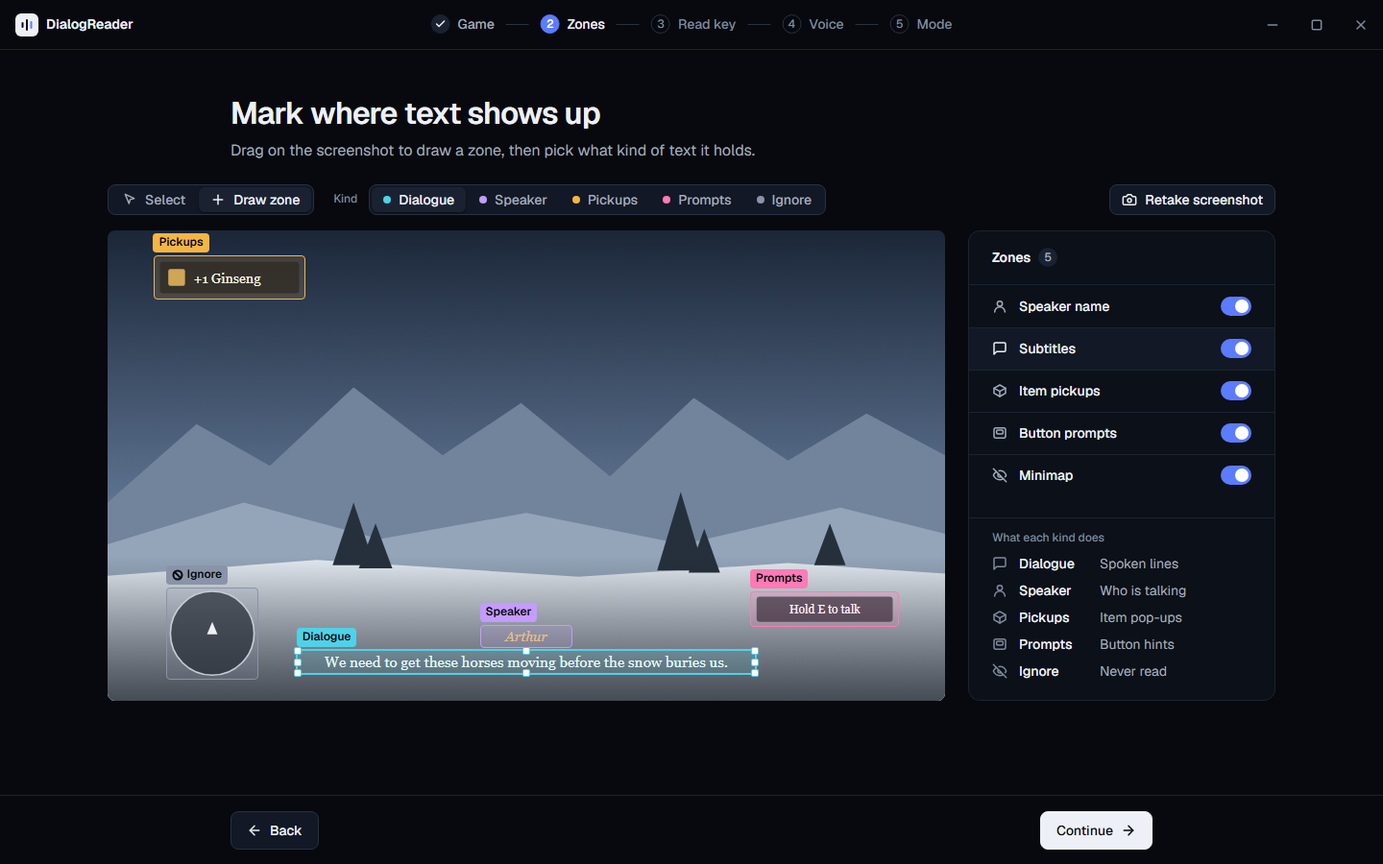
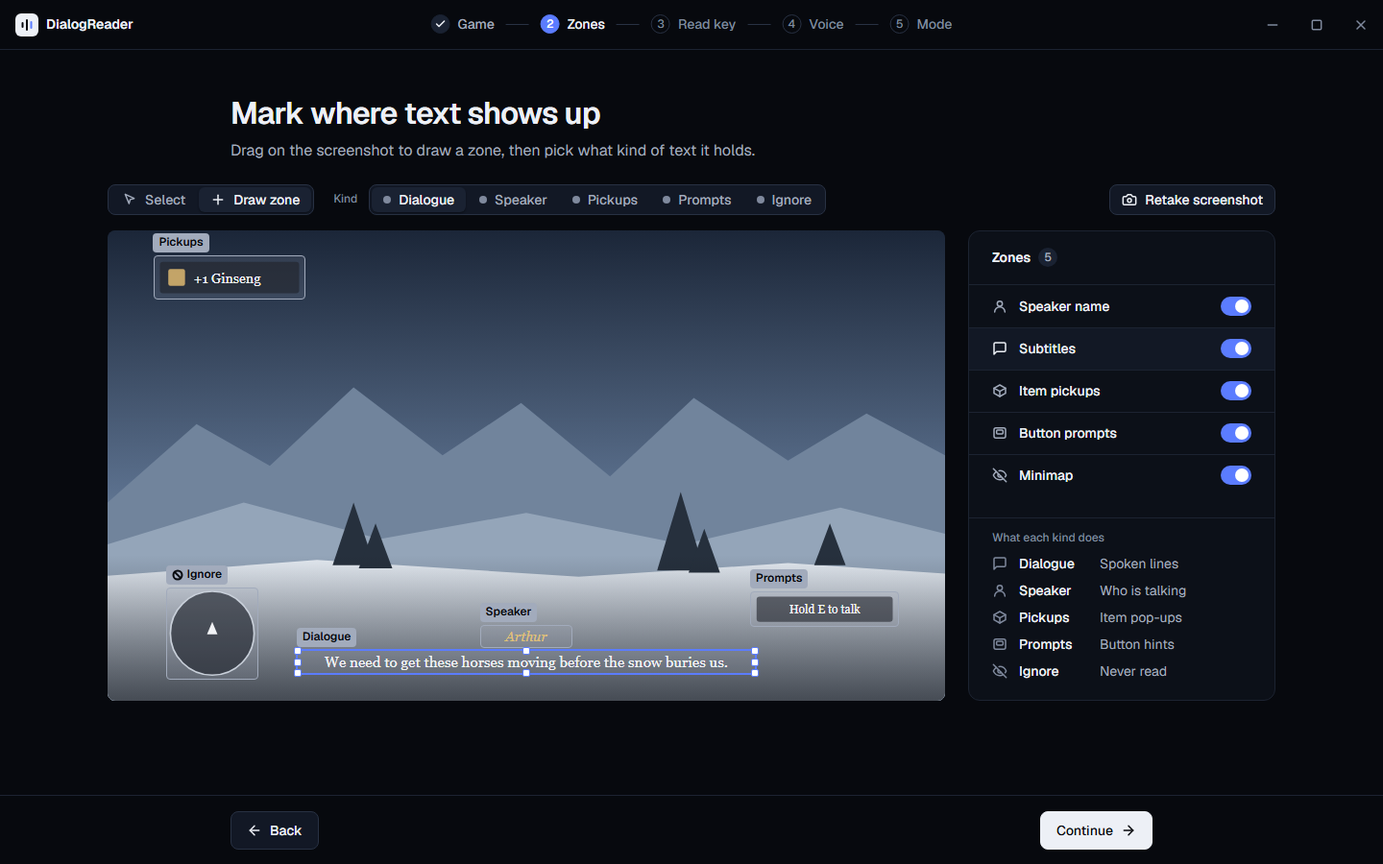
feat(app): grey zone kinds, opt-in Skia renderer, hidden-desktop snapshot tool
- Zone boxes, labels and kind dots are grey in the app and on mockups 03, 06, 11 only
  (other mockup pages byte-identical). Selected zone keeps the accent.
- renderer-skia cargo feature (opt-in). Default build stays femtovg, same exe size.
  Skia matches mockup text ink (100% at 1x and 2.25x vs femtovg 79% / 89%) but the exe
  is 29.2 MB, or 22.1 MB with panic=abort. Numbers in crates/app/README.md.
- examples/snapshot.rs + tools/hidden-run.ps1: render the real window on a hidden desktop.

diff --git a/design/mockups/c-midnight/11-zones.html b/design/mockups/c-midnight/11-zones.html
@@ -12,7 +12,7 @@
 </style></head>
 <body>
 <header class="bar"><div class="brand"><svg width="24" height="24" viewBox="0 0 24 24" style="flex:none;display:block"><rect width="24" height="24" rx="6" fill="#EDF0F6"/><rect x="6.5" y="9" width="2" height="6" rx="1" fill="#07090E"/><rect x="11" y="6" width="2" height="12" rx="1" fill="#07090E"/><rect x="15.5" y="8" width="2" height="8" rx="1" fill="#5B7CFF"/></svg>DialogReader</div><div class="switcher"><span class="thumb " style=""><svg viewBox="0 0 160 90" preserveAspectRatio="xMidYMid slice" aria-hidden="true"><defs><linearGradient id="a-rdr2" x1="0" y1="0" x2="0" y2="1"><stop offset="0" stop-color="#1F2E45"/><stop offset="1" stop-color="#9AAEC4"/></linearGradient></defs><rect width="160" height="90" fill="url(#a-rdr2)"/><polygon fill="#6E8299" points="0,52 22,36 38,44 60,26 82,42 104,30 128,46 160,34 160,90 0,90"/><polygon fill="#E2E8EF" points="0,66 50,61 100,66 160,60 160,90 0,90"/><g fill="#25303C"><polygon points="24,68 30,50 36,68"/><polygon points="33,69 38,56 43,69"/><polygon points="118,66 124,46 130,66"/></g></svg></span><span class="name">Red Dead Redemption 2</span><svg class="ic" viewBox="0 0 24 24"><path d="m6 9 6 6 6-6"/></svg><span class="kbd">Ctrl K</span></div><span class="vsep"></span><nav class="tabs"><div class="tab"><svg class="ic" viewBox="0 0 24 24"><rect width="7" height="7" x="3" y="3" rx="1.5"/><rect width="7" height="7" x="14" y="3" rx="1.5"/><rect width="7" height="7" x="14" y="14" rx="1.5"/><rect width="7" height="7" x="3" y="14" rx="1.5"/></svg>Overview</div><div class="tab on"><svg class="ic" viewBox="0 0 24 24"><path d="M5 3a2 2 0 0 0-2 2M19 3a2 2 0 0 1 2 2M21 19a2 2 0 0 1-2 2M5 21a2 2 0 0 1-2-2M9 3h1M9 21h1M14 3h1M14 21h1M3 9v1M21 9v1M3 14v1M21 14v1"/></svg>Zones</div><div class="tab"><svg class="ic" viewBox="0 0 24 24"><path d="M12.22 2h-.44a2 2 0 0 0-2 2v.18a2 2 0 0 1-1 1.73l-.43.25a2 2 0 0 1-2 0l-.15-.08a2 2 0 0 0-2.73.73l-.22.38a2 2 0 0 0 .73 2.73l.15.1a2 2 0 0 1 1 1.72v.51a2 2 0 0 1-1 1.74l-.15.09a2 2 0 0 0-.73 2.73l.22.38a2 2 0 0 0 2.73.73l.15-.08a2 2 0 0 1 2 0l.43.25a2 2 0 0 1 1 1.73V20a2 2 0 0 0 2 2h.44a2 2 0 0 0 2-2v-.18a2 2 0 0 1 1-1.73l.43-.25a2 2 0 0 1 2 0l.15.08a2 2 0 0 0 2.73-.73l.22-.39a2 2 0 0 0-.73-2.73l-.15-.08a2 2 0 0 1-1-1.74v-.5a2 2 0 0 1 1-1.74l.15-.09a2 2 0 0 0 .73-2.73l-.22-.38a2 2 0 0 0-2.73-.73l-.15.08a2 2 0 0 1-2 0l-.43-.25a2 2 0 0 1-1-1.73V4a2 2 0 0 0-2-2z"/><circle cx="12" cy="12" r="3"/></svg>Settings</div></nav><div class="bar-right"><span class="status"><span class="dot"></span>Reading</span><div class="winctl"><span><svg class="ic" viewBox="0 0 24 24"><path d="M5 12h14"/></svg></span><span><svg class="ic" viewBox="0 0 24 24"><rect x="5" y="5" width="14" height="14" rx="1.5"/></svg></span><span><svg class="ic" viewBox="0 0 24 24"><path d="M18 6 6 18M6 6l12 12"/></svg></span></div></div></header>
-<main class="page"><div class="ed">
+<main class="page kgrey"><div class="ed">
 <section class="canvas">
 <div class="tb ztools"><div class="seg"><span class="on"><svg class="ic" viewBox="0 0 24 24"><path d="M5 3.5 19 10l-6.2 1.8L11 18z"/></svg>Select</span><span class=""><svg class="ic" viewBox="0 0 24 24"><path d="M5 12h14"/><path d="M12 5v14"/></svg>Draw zone</span></div><span class="label" style="margin-left:var(--s-2)">Kind</span><div class="seg"><span class="on"><span class="dot k-dialogue"></span>Dialogue</span><span class=""><span class="dot k-speaker"></span>Speaker</span><span class=""><span class="dot k-pickups"></span>Pickups</span><span class=""><span class="dot k-prompts"></span>Prompts</span><span class=""><span class="dot k-ignore"></span>Ignore</span></div><span class="spacer"></span><span class="btn"><svg class="ic" viewBox="0 0 24 24"><path d="M14.5 4h-5L7 7H4a2 2 0 0 0-2 2v9a2 2 0 0 0 2 2h16a2 2 0 0 0 2-2V9a2 2 0 0 0-2-2h-3z"/><circle cx="12" cy="13" r="3"/></svg>Retake screenshot</span></div>
 <div class="cv"><div class="stage" style="width:1016px"><svg class="scene" viewBox="0 0 1600 900" preserveAspectRatio="xMidYMid slice" aria-hidden="true">

diff --git a/design/mockups/c-midnight/03-draw-zones.html b/design/mockups/c-midnight/03-draw-zones.html
@@ -7,7 +7,7 @@
 </style></head>
 <body>
 <header class="bar"><div class="brand"><svg width="24" height="24" viewBox="0 0 24 24" style="flex:none;display:block"><rect width="24" height="24" rx="6" fill="#EDF0F6"/><rect x="6.5" y="9" width="2" height="6" rx="1" fill="#07090E"/><rect x="11" y="6" width="2" height="12" rx="1" fill="#07090E"/><rect x="15.5" y="8" width="2" height="8" rx="1" fill="#5B7CFF"/></svg>DialogReader</div><div class="steps"><div class="step done"><span class="n"><svg class="ic" viewBox="0 0 24 24"><path d="M20 6 9 17l-5-5"/></svg></span>Game</div><span class="step-sep"></span><div class="step on"><span class="n">2</span>Zones</div><span class="step-sep"></span><div class="step"><span class="n">3</span>Read key</div><span class="step-sep"></span><div class="step"><span class="n">4</span>Voice</div><span class="step-sep"></span><div class="step"><span class="n">5</span>Mode</div></div><div class="bar-right"><div class="winctl"><span><svg class="ic" viewBox="0 0 24 24"><path d="M5 12h14"/></svg></span><span><svg class="ic" viewBox="0 0 24 24"><rect x="5" y="5" width="14" height="14" rx="1.5"/></svg></span><span><svg class="ic" viewBox="0 0 24 24"><path d="M18 6 6 18M6 6l12 12"/></svg></span></div></div></header>
-<main class="page">
+<main class="page kgrey">
 <div class="ob"><div class="ob-head"><h1>Mark where text shows up</h1><p class="lead">Drag on the screenshot to draw a zone, then pick what kind of text it holds.</p></div></div>
 <div class="work">
 <div class="ztools"><div class="seg"><span class=""><svg class="ic" viewBox="0 0 24 24"><path d="M5 3.5 19 10l-6.2 1.8L11 18z"/></svg>Select</span><span class="on"><svg class="ic" viewBox="0 0 24 24"><path d="M5 12h14"/><path d="M12 5v14"/></svg>Draw zone</span></div><span class="label" style="margin-left:var(--s-2)">Kind</span><div class="seg"><span class="on"><span class="dot k-dialogue"></span>Dialogue</span><span class=""><span class="dot k-speaker"></span>Speaker</span><span class=""><span class="dot k-pickups"></span>Pickups</span><span class=""><span class="dot k-prompts"></span>Prompts</span><span class=""><span class="dot k-ignore"></span>Ignore</span></div><span class="spacer"></span><span class="btn"><svg class="ic" viewBox="0 0 24 24"><path d="M14.5 4h-5L7 7H4a2 2 0 0 0-2 2v9a2 2 0 0 0 2 2h16a2 2 0 0 0 2-2V9a2 2 0 0 0-2-2h-3z"/><circle cx="12" cy="13" r="3"/></svg>Retake screenshot</span></div>

diff --git a/design/mockups/c-midnight/06-mode.html b/design/mockups/c-midnight/06-mode.html
@@ -9,7 +9,7 @@
 </style></head>
 <body>
 <header class="bar"><div class="brand"><svg width="24" height="24" viewBox="0 0 24 24" style="flex:none;display:block"><rect width="24" height="24" rx="6" fill="#EDF0F6"/><rect x="6.5" y="9" width="2" height="6" rx="1" fill="#07090E"/><rect x="11" y="6" width="2" height="12" rx="1" fill="#07090E"/><rect x="15.5" y="8" width="2" height="8" rx="1" fill="#5B7CFF"/></svg>DialogReader</div><div class="steps"><div class="step done"><span class="n"><svg class="ic" viewBox="0 0 24 24"><path d="M20 6 9 17l-5-5"/></svg></span>Game</div><span class="step-sep"></span><div class="step done"><span class="n"><svg class="ic" viewBox="0 0 24 24"><path d="M20 6 9 17l-5-5"/></svg></span>Zones</div><span class="step-sep"></span><div class="step done"><span class="n"><svg class="ic" viewBox="0 0 24 24"><path d="M20 6 9 17l-5-5"/></svg></span>Read key</div><span class="step-sep"></span><div class="step done"><span class="n"><svg class="ic" viewBox="0 0 24 24"><path d="M20 6 9 17l-5-5"/></svg></span>Voice</div><span class="step-sep"></span><div class="step on"><span class="n">5</span>Mode</div></div><div class="bar-right"><div class="winctl"><span><svg class="ic" viewBox="0 0 24 24"><path d="M5 12h14"/></svg></span><span><svg class="ic" viewBox="0 0 24 24"><rect x="5" y="5" width="14" height="14" rx="1.5"/></svg></span><span><svg class="ic" viewBox="0 0 24 24"><path d="M18 6 6 18M6 6l12 12"/></svg></span></div></div></header>
-<main class="page"><div class="ob">
+<main class="page kgrey"><div class="ob">
 <div class="ob-head"><h1>How should it read?</h1><p class="lead">You can switch any time from the main window.</p></div>
 <div class="ob-body opts">
 <div class="card opt sel"><div class="row"><span class="icb"><svg class="ic" viewBox="0 0 24 24"><path d="M13 2 4 14h7l-1 8 9-12h-7z"/></svg></span><span class="spacer radio on"></span></div><h3>Automatic</h3><p>Reads new text the moment it appears in a zone.</p><p class="muted">Good for story games and long talks.</p></div>

diff --git a/design/mockups/c-midnight/tokens.css b/design/mockups/c-midnight/tokens.css
@@ -308,3 +308,11 @@ h3 { font-size: var(--fs-3); font-weight: 500; line-height: 1.3; }
 .zrow .zic { display: inline-flex; width: 16px; height: 16px; color: var(--text-2); flex: none; }
 .zrow .zic svg { width: 16px; height: 16px; }
 .zrow.on .zic { color: var(--text); }
+
+/* 2026-11-22 (Max): zone kinds are grey on 03, 11 and 06 (pages marked .kgrey). Zone boxes, their tags,
+   the Kind picker dots and the summary dots use grey. The grey kind line icons are the only kind cue.
+   The selected zone uses the accent for selection only. */
+.kgrey .zone { --zc: var(--text-2); --zf: rgba(162, 171, 188, 0.14); }
+.kgrey .zone.sel { border-color: var(--accent); }
+.kgrey .zone.sel .handle { border-color: var(--accent); }
+.kgrey .dot[class*=" k-"] { background: var(--text-3); }

diff --git a/crates/app/examples/snapshot.rs b/crates/app/examples/snapshot.rs
@@ -1,0 +1,113 @@
+//! Renders one page in a real window with a chosen renderer and saves it as PNG, then quits.
+//! Used for the text ink check of the Skia spike (README, "Renderer"). It shows a window, so it runs only on a
+//! hidden desktop (tools/hidden-run.ps1). On the normal desktop ("Default") it refuses to start.
+//!
+//! Build: `cargo build --release -p dr-app --features renderer-skia --example snapshot` (femtovg, Skia and software
+//! all built in). Run through tools/hidden-run.ps1:
+//! `snapshot <skia|femtovg|software> <page> <out.png> [scale]`. The scale is the window scale factor
+//! (SLINT_SCALE_FACTOR); the default is 1, which gives a 1440 x 900 PNG. Use 2.25 for a 225% screen.
+
+use std::time::Duration;
+
+use slint::ComponentHandle;
+
+fn main() {
+    let args: Vec<String> = std::env::args().skip(1).collect();
+    let (renderer, page, out, scale) = match args.as_slice() {
+        [r, p, o] => (r, p, o, "1"),
+        [r, p, o, s] => (r, p, o, s.as_str()),
+        _ => {
+            eprintln!("usage: snapshot <renderer> <page> <out.png> [scale]");
+            std::process::exit(2);
+        }
+    };
+    let Some(page) = dr_app::page_from_name(page) else {
+        eprintln!("unknown page: {page}");
+        std::process::exit(2);
+    };
+    let scale: f32 = match scale.parse() {
+        Ok(s) if s > 0.0 => s,
+        _ => {
+            eprintln!("bad scale: {scale}");
+            std::process::exit(2);
+        }
+    };
+    // Nothing before this line may create a window.
+    match desktop::current_name() {
+        Some(name) if !name.eq_ignore_ascii_case("Default") => eprintln!("desktop: {name}"),
+        other => {
+            eprintln!("refused: this would show a window on the user's screen (desktop {other:?}). Run it through tools/hidden-run.ps1.");
+            std::process::exit(3);
+        }
+    }
+    // The winit backend reads the scale factor when it creates the window. Without it, the PNG follows the
+    // screen scale (3240 x 2025 at 225%).
+    // SAFETY: still single-threaded here; no other thread reads the environment.
+    unsafe { std::env::set_var("SLINT_SCALE_FACTOR", scale.to_string()) };
+    // Fails when the renderer is not built in, so the picture is always from the named renderer.
+    slint::BackendSelector::new()
+        .backend_name("winit".into())
+        .renderer_name(renderer.clone())
+        .select()
+        .expect("select renderer");
+    let w = dr_app::build_main_window().expect("window");
+    w.set_page(page);
+    w.window().set_size(slint::LogicalSize::new(1440.0, 900.0));
+    w.show().expect("show");
+    let weak = w.as_weak();
+    let out = out.clone();
+    slint::Timer::single_shot(Duration::from_millis(1500), move || {
+        let w = weak.unwrap();
+        let buf = w.window().take_snapshot().expect("snapshot");
+        image::save_buffer(&out, buf.as_bytes(), buf.width(), buf.height(), image::ColorType::Rgba8)
+            .expect("save png");
+        println!("saved {} x {} to {out}", buf.width(), buf.height());
+        slint::quit_event_loop().expect("quit");
+    });
+    slint::run_event_loop().expect("event loop");
+}
+
+/// The name of the desktop this thread runs on, or None when it cannot be read (then the caller refuses).
+#[cfg(windows)]
+mod desktop {
+    use std::ffi::c_void;
+
+    const UOI_NAME: i32 = 2;
+
+    #[link(name = "user32")]
+    unsafe extern "system" {
+        fn GetThreadDesktop(thread_id: u32) -> *mut c_void;
+        fn GetUserObjectInformationW(obj: *mut c_void, index: i32, info: *mut c_void, len: u32, needed: *mut u32)
+        -> i32;
+    }
+    #[link(name = "kernel32")]
+    unsafe extern "system" {
+        fn GetCurrentThreadId() -> u32;
+    }
+
+    pub fn current_name() -> Option<String> {
+        let mut buf = [0u16; 256];
+        let mut needed = 0u32;
+        // SAFETY: the desktop handle from GetThreadDesktop needs no close; the buffer is valid for its length in
+        // bytes, and the call writes at most that many.
+        let ok = unsafe {
+            let desk = GetThreadDesktop(GetCurrentThreadId());
+            if desk.is_null() {
+                return None;
+            }
+            GetUserObjectInformationW(desk, UOI_NAME, buf.as_mut_ptr().cast(), size_of_val(&buf) as u32, &mut needed)
+        };
+        if ok == 0 {
+            return None;
+        }
+        let len = buf.iter().position(|&c| c == 0).unwrap_or(buf.len());
+        Some(String::from_utf16_lossy(&buf[..len]))
+    }
+}
+
+#[cfg(not(windows))]
+mod desktop {
+    pub fn current_name() -> Option<String> {
+        None
+    }
+}

diff --git a/design/mockups/c-midnight/_build.py b/design/mockups/c-midnight/_build.py
@@ -294,7 +294,7 @@ css03 = """
 """
 kinds = [("dialogue", "Spoken lines"), ("speaker", "Who is talking"), ("pickups", "Item pop-ups"), ("prompts", "Button hints"), ("ignore", "Never read")]
 klist = "".join(f'<div class="krow"><span class="kicon">{ic("k-" + k)}</span><span style="font-weight:500;width:72px">{KIND[k]}</span><span class="muted">{d}</span></div>' for k, d in kinds)
-html = head("Draw zones", css03) + obbar(2) + f'''<main class="page">
+html = head("Draw zones", css03) + obbar(2) + f'''<main class="page kgrey">
 <div class="ob">{obhead("Mark where text shows up", "Drag on the screenshot to draw a zone, then pick what kind of text it holds.")}</div>
 <div class="work">
 {zonetools(draw=True)}
@@ -395,7 +395,7 @@ css06 = """
 .sum .set-row{min-height:48px}
 .sum .k{width:120px;color:var(--text-2)}
 """
-html = head("Mode", css06) + obbar(5) + f'''<main class="page"><div class="ob">
+html = head("Mode", css06) + obbar(5) + f'''<main class="page kgrey"><div class="ob">
 {obhead("How should it read?", "You can switch any time from the main window.")}
 <div class="ob-body opts">
 <div class="card opt sel"><div class="row"><span class="icb">{ic("zap")}</span><span class="spacer radio on"></span></div><h3>Automatic</h3><p>Reads new text the moment it appears in a zone.</p><p class="muted">Good for story games and long talks.</p></div>
@@ -524,7 +524,7 @@ css11 = """
 .sec{padding:var(--s-4) var(--s-5);border-top:1px solid var(--line);display:flex;flex-direction:column;gap:var(--s-3)}
 .found{padding:var(--s-3);border-radius:var(--r-md);background:var(--surface-2);border:1px solid var(--line)}
 """
-html = head("Zones", css11) + nav("Zones") + f'''<main class="page"><div class="ed">
+html = head("Zones", css11) + nav("Zones") + f'''<main class="page kgrey"><div class="ed">
 <section class="canvas">
 <div class="tb ztools">{zonetools(draw=False)[len('<div class="ztools">'):-len('</div>')]}</div>
 <div class="cv">{stage(style="width:1016px", sel="Subtitles", off=("prompts",))}</div>

diff --git a/crates/app/README.md b/crates/app/README.md
@@ -15,6 +15,7 @@ fake data of the mockups. Navigation works. There is no capture, OCR, speech or 
 | Mockup comparison numbers | `cargo test -p dr-app --test screens -- --nocapture screens_match` |
 | Render every screen to PNG | `cargo run -p dr-app --bin render-screens -- [out-dir]` |
 | Open the app (shows a window) | `cargo run -p dr-app --bin DialogReader` |
+| Build with the Skia renderer | `cargo build --release -p dr-app --bin DialogReader --no-default-features --features renderer-skia` |
 
 - `render-screens` draws each screen with Slint's software renderer at 1440 x 900 into a buffer and saves it as
   PNG. It opens no window. The default out-dir is `target/screens`. File names match the mockup shots
@@ -51,6 +52,8 @@ ui/overlays/             pill, game_switcher, quick_menu (menu + voice flyout, w
 ui/fonts/                Geist 1.800 and Geist Mono 1.701 variable fonts (SIL OFL, see OFL.txt)
 ui/icons/, ui/art/       written by tools/export_icons.py from design/mockups/c-midnight/_build.py
 tests/                   nav.rs (testing backend), screens.rs (renders every screen, compares with the mockups)
+examples/snapshot.rs     one page in a real window with a chosen renderer, saved as PNG (run on a hidden desktop)
+tools/hidden-run.ps1     runs a program on a hidden Windows desktop and waits for it
 ```
 
 ## Design rules in code
@@ -59,6 +62,9 @@ tests/                   nav.rs (testing backend), screens.rs (renders every scr
   writes a color by hand. Colors with alpha are 8-digit hex. In `@markdown` text, write `\{Palette.text-2}`.
 - Icons are white SVG files drawn with `colorize`. `<name>.svg` is drawn for 16 px, `-sm` for 12 px, `-lg` for 22 px,
   so the line is as thin as in the mockups. Kind icons are always grey.
+- Zone kinds have no color on 03 and 11 (Max, 2026-11-22): `Stage { grey-kinds: true; }` draws every zone and tag
+  in grey (`text-2`, `zone-fill`), and the selected zone's outline and handles in the accent. The Kind picker dots
+  and the 06 summary dots are `text-3`. The 01 and 10 stages still use the kind colors, as their mockups do.
 - After a change to the mockup icons or art, run `python -I crates/app/tools/export_icons.py`.
 - Text heights follow the CSS line boxes (`Type.lh1` to `lh3`), so blocks stack as in the mockups. Multi-line
   text uses `line-height-factor` (`Type.lhf-115` to `lhf-150`; Geist's natural line height is 1.3 em).
@@ -83,7 +89,73 @@ tests/                   nav.rs (testing backend), screens.rs (renders every scr
 - The gap is the rasterizer, not the weight. Chromium draws with ClearType and extra contrast; Slint draws
   grayscale coverage. Regular text has the same gap: the "now speaking" paragraph has 1762.6 units of ink in the
   shot and 1362.7 in Slint (+29%). Raising the weight does not close it: at 700 the brand word reaches only 474.6.
-  Open question for Max: docs/app-spec.md, section 6.
+  The Skia renderer closes this gap; see "Renderer" below.
+
+## Renderer (Skia spike, measured 2026-11-22)
+
+The real window draws with femtovg (OpenGL), the default feature `renderer-femtovg`. The software renderer is
+always built in: render-screens and the tests use it, and `SLINT_BACKEND=winit-software` makes the window use it
+when OpenGL fails. Skia is an opt-in feature, `renderer-skia` (same Slint 1.18.1).
+
+**Text ink.** `examples/snapshot.rs` opens the window on a hidden desktop (`tools/hidden-run.ps1`) on the overview
+page (10-main-b) and saves `Window::take_snapshot()`. For Skia that is a CPU re-render of the scene, not a
+read-back of the window. Its last argument is the scale factor (it sets `SLINT_SCALE_FACTOR`); the default is 1,
+which gives 1440 x 900. Ink is the sum of (luminance minus the most common luminance) / 255 over a box around each
+label. At 2.25 the boxes are 2.25 times larger, and the mockup shot is a headless Edge shot of 10-main-b.html with
+`--force-device-scale-factor=2.25` (not in `design/`). The 1x shot taken the same way gives exactly the numbers of
+`shots/10-main-b.png`. The crops differ from the section above (the brand word is 431.3 in the shot here, 517.4
+there), so compare numbers only inside this table.
+
+| Label (weight), scale 1 (100%) | Mockup shot | Software (render-screens) | femtovg | Skia |
+|---|---|---|---|---|
+| brand "DialogReader" (600) | 431.3 | 353.5 | 355.5 | 432.9 |
+| tab "Overview" (600) | 240.7 | 186.2 | 187.5 | 242.1 |
+| button "Read now" (500) | 236.2 | 188.1 | 189.2 | 237.7 |
+| "Recent" title (600) | 208.4 | 169.1 | 170.2 | 207.3 |
+| zone "Speaker name" (500) | 361.3 | 283.2 | 285.2 | 363.2 |
+| now-speaking paragraph (400 / 500) | 1763.4 | 1383.1 | 1393.1 | 1795.0 |
+| recent row "Arthur: We need..." (400 / 500) | 455.0 | 354.0 | 356.9 | 458.6 |
+| **total at scale 1, against the shot** | **100%** | **79%** | **79%** | **101%** |
+| **total at scale 2.25 (this PC, 225%)** | **16654.4 (100%)** | **14574.5 (88%)** | **14867.2 (89%)** | **16652.1 (100%)** |
+
+Skia matches the Chromium shots at both scales, at every weight. The gap it closes depends on the scale: at 100%
+femtovg has 21% less ink than the shot, at 225% only 11% less. So on Max's 225% screen Skia has 12% more ink than
+femtovg, against 27% at 100%.
+
+**Size of `DialogReader.exe`** (release; MB = 10^6 bytes, so 29.2 MB shows as 27.9 MB in Explorer; zip = deflate
+level 9, xz = level 9, as a guide to the download size):
+
+| Build | femtovg + software | Skia + software |
+|---|---|---|
+| repo release profile | 19.1 MB (zip 8.0, xz 5.9) | 29.2 MB (zip 12.2, xz 9.0) |
+| + `lto = "fat"`, `codegen-units = 1` | 17.8 MB | 27.2 MB |
+| + also `panic = "abort"` | not measured | 22.1 MB |
+
+The goal was under about 25 MB. Skia reaches it only with `panic = "abort"`. That does not have to change the
+release profile: a named profile in the workspace `Cargo.toml` applies only to builds that ask for it.
+
+```toml
+[profile.ship]
+inherits = "release"
+lto = "fat"
+codegen-units = 1
+panic = "abort"
+```
+
+`cargo build --profile ship -p dr-app --bin DialogReader --no-default-features --features renderer-skia` writes to
+`target\ship` (checked 2026-11-22 with the same settings passed as `--config profile.ship.*`: 22,085,632 bytes,
+2 min 49 s). Tests, the arena and normal release builds keep unwinding. The cost is in the shipped exe only: a
+panic in any thread ends the app at once, with no `Drop` cleanup. With unwinding, a panic in a worker thread ends
+only that thread, and a panic on the UI thread still ends the app, but runs `Drop` first. The app has no
+`catch_unwind` or panic hook today. Skia stays off by default until Max decides (docs/app-spec.md, section 6,
+item 8).
+
+**Build.** `skia-bindings` downloads a prebuilt Skia (about 10 MB,
+`skia-binaries-...-x86_64-pc-windows-msvc-d3d-ganesh-gl-jpegd-jpege-pdf.tar.gz`) from GitHub at build time, so the
+first build needs the internet (or `SKIA_BINARIES_URL` pointing at a local copy). It unpacks to about 82 MB in
+`target`. With the other crates already built, the release build that added Skia took 1 min 19 s (download
+included); a release rebuild of dr-app alone takes about 51 s. The fat LTO build took 4 min 20 s. No build errors.
+Skia's window surface on Windows is wgpu (GPU), with a CPU surface (softbuffer) as its fallback.
 
 ## Known gaps (M1)
 

diff --git a/docs/app-spec.md b/docs/app-spec.md
@@ -230,7 +230,8 @@ export global Palette {
     out property <color> danger: #F87171;
     out property <color> pill-bg: #07090EDB;      // 0.86
     out property <color> pill-line: #FFFFFF1A;    // 0.10
-    // zone kinds (outline and fill on the stage only; lists use grey icons)
+    // zone kinds (outline and fill on the 01 and 10 stages only; lists use grey icons)
+    out property <color> zone-fill: #A2ABBC24;    // grey zone fill on 03 and 11 (0.14)
     out property <color> z-dialogue: #4FD1E8;  out property <color> z-dialogue-soft: #4FD1E824;
     out property <color> z-speaker: #C49BFF;   out property <color> z-speaker-soft: #C49BFF24;
     out property <color> z-pickups: #F5B544;   out property <color> z-pickups-soft: #F5B54424;
@@ -256,7 +257,8 @@ export global Type { out property <length> fs1: 12px; out property <length> fs2:
   femtovg) apply the weight axis. Headings: `letter-spacing` -0.025em on fs5 (about -0.8px, `Type.ls-display`).
 - **Text weight on screen:** Chromium draws the mockup text with ClearType and extra contrast; Slint draws
   grayscale coverage. All text, at every weight, has about 15 to 30% less ink in Slint than in the shots. The
-  weights themselves are right (measured, see `crates/app/README.md`). Open question in section 6.
+  weights themselves are right (measured, see `crates/app/README.md`). Slint's Skia renderer matches the shots
+  (section 6, item 8).
 - **Line height:** Slint 1.18 `Text` has `line-height-factor`, relative to the font's natural line height
   (Geist: 1.3 em). Tokens `Type.lhf-115` to `lhf-150` give the CSS line heights 1.15 to 1.5. `StyledText` has no
   line height, so mixed-color multi-line text is one `Text` with the colored prefix drawn over its start.
@@ -378,11 +380,24 @@ Navigation is one Slint enum property on the main window:
 3. "Import settings" on the welcome page: v1 imports a profile JSON exported from DialogReader (Export is in the
    profile menu). It does not read the old C# app's settings.
 4. Zone kind colors: settled. Max (2026-11-22): make them grey. The zone boxes and labels on the picture (03, 11),
-   the Kind picker dots and the 06 summary dots turn grey, in the app and in those mockups only.
+   the Kind picker dots and the 06 summary dots turn grey, in the app and in those mockups only. Done 2026-11-22:
+   grey `text-2` lines and tags, `zone-fill` fill, `text-3` dots; the selected zone uses the accent for selection.
+   The stages on 01 and 10-main-b still use kind colors, as their mockups do. Open points: item 9.
 5. Settings > Keys: settled. Max picked "D everywhere" (2026-11-22), so Settings shows the same two 04-read-key-d
    cards as setup.
 6. Media pause while speaking. The old app had it; this plan puts it after v1. Is v1 without it acceptable?
 7. Kokoro wording. M3a changes the voice page header, "Get more voices" and Settings > Voices to what v1 ships
    (Windows voices). Max approves the new wording first.
 8. Text weight: Max (2026-11-22) chose a spike on Slint's Skia renderer for the real window (gamma-corrected
-   text). Measure text ink against the mockup shots and the download size before switching.
+   text). Measured 2026-11-22 (`crates/app/README.md`, "Renderer"). At 100% scale, Skia text has 101% of the
+   mockup shots' ink, femtovg and software 79%. At 225% (Max's screen), Skia has 100% of a 225% Chromium shot,
+   femtovg 89%, software 88%. So Skia matches the mockups at both scales, but the gain on Max's screen is 11
+   points, not 21. The exe grows from 19.1 MB to 29.2 MB (MB = 10^6 bytes; zip 8.0 to 12.2 MB). It gets under
+   25 MB (22.1 MB) only with fat LTO and `panic = "abort"`. A named Cargo profile (`[profile.ship]`, inherits
+   release) can carry those settings for the shipped exe only; tests and normal builds keep unwinding. The cost:
+   in the shipped exe, any panic ends the app at once. For now Skia is the opt-in feature `renderer-skia` and
+   femtovg stays the default. Open for Max: accept about 29 MB, or accept `panic = "abort"` in a ship profile,
+   or keep femtovg.
+9. Zone kind colors, open points after item 4: should the stages on 01 and 10-main-b turn grey too? And the five
+   Kind picker dots on 03 and 11 are now the same grey, so they carry no meaning. Keep them, or drop the dots and
+   keep only the kind icons?
